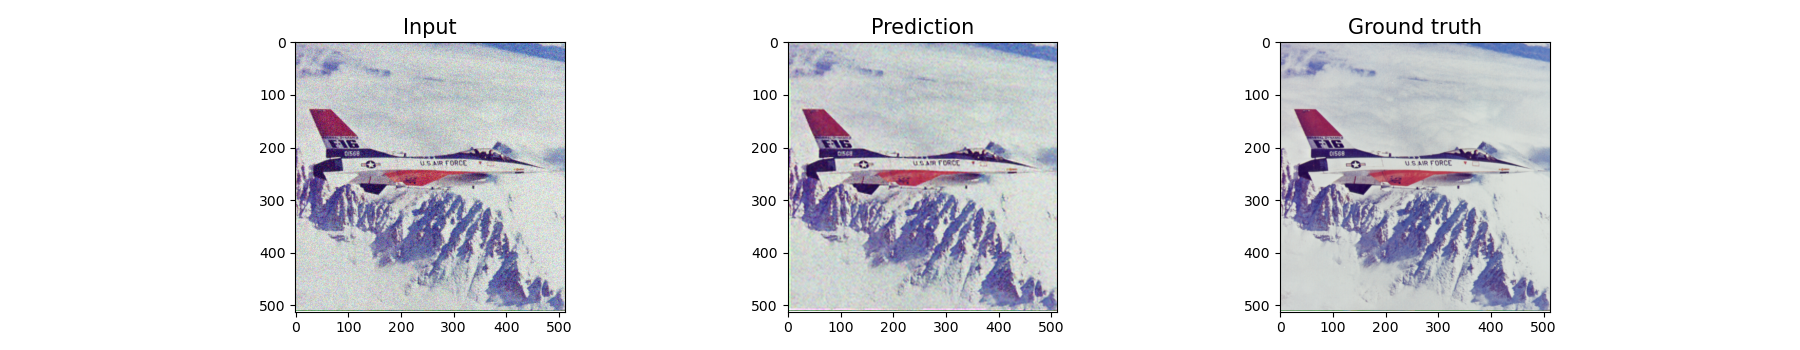
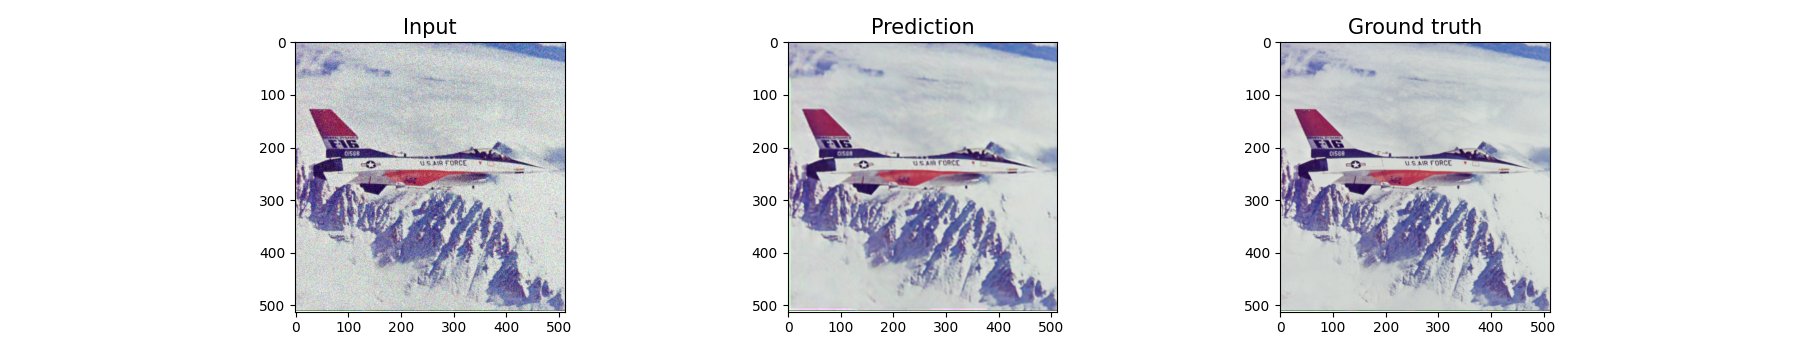
smooth

diff --git a/model.py b/model.py
@@ -56,69 +56,89 @@ class U(nn.Module):
 
 class Model(nn.Module):
 
-    def __init__(self, w, h, input_channel=3, u_mode='bilinear'):
+    def __init__(self, w, h, input_channel=3, u_mode='bilinear', channels=[128, 128, 128, 128, 128], skip=[4, 4, 4, 4, 4]):
         super(Model, self).__init__()
+        self.skip = skip
+        self.d1 = D(input_channel, channels[0], 3)
+        self.d2 = D(channels[0], channels[1], 3)
+        self.d3 = D(channels[1], channels[2], 3)
+        self.d4 = D(channels[2], channels[3], 3)
+        self.d5 = D(channels[3], channels[4], 3)
 
-        self.d1 = D(input_channel, 128, 3)
-        self.d2 = D(128, 128, 3)
-        self.d3 = D(128, 128, 3)
-        self.d4 = D(128, 128, 3)
-        self.d5 = D(128, 128, 3)
+        self.u1 = U(channels[1] + skip[0], channels[0], 3, mode=u_mode)
+        self.u2 = U(channels[2] + skip[1], channels[1], 3, mode=u_mode)
+        self.u3 = U(channels[3] + skip[2], channels[2], 3, mode=u_mode)
+        self.u4 = U(channels[4] + skip[3], channels[3], 3, mode=u_mode)
+        self.u5 = U(channels[4] + skip[4], channels[4], 3, mode=u_mode)
 
-        self.u1 = U(128 + 4, 128, 3, mode=u_mode)
-        self.u2 = U(128 + 4, 128, 3, mode=u_mode)
-        self.u3 = U(128 + 4, 128, 3, mode=u_mode)
-        self.u4 = U(128 + 4, 128, 3, mode=u_mode)
-        self.u5 = U(128 + 4, 128, 3, mode=u_mode)
+        self.s1 = S(channels[0], skip[0], 1)
+        self.s2 = S(channels[1], skip[1], 1)
+        self.s3 = S(channels[2], skip[2], 1)
+        self.s4 = S(channels[3], skip[3], 1)
+        self.s5 = S(channels[4], skip[4], 1)
 
-        self.s1 = S(128, 4, 1)
-        self.s2 = S(128, 4, 1)
-        self.s3 = S(128, 4, 1)
-        self.s4 = S(128, 4, 1)
-        self.s5 = S(128, 4, 1)
-
-        self.conv_out = nn.Conv2d(128, 3, 1, stride=1, padding=0, bias=True)
+        self.conv_out = nn.Conv2d(channels[0], 3, 1, stride=1, padding=0, bias=True)
 
     def forward(self, x):
         h = self.d1(x)
-        skip1 = self.s1(h)
+        if self.skip[0]!=0:
+            skip1 = self.s1(h)
         h = self.d2(h)
-        skip2 = self.s2(h)
+        if self.skip[1]!=0:
+            skip2 = self.s2(h)
         h = self.d3(h)
-        skip3 = self.s3(h)
+        if self.skip[2]!=0:
+            skip3 = self.s3(h)
         h = self.d4(h)
-        skip4 = self.s4(h)
+        if self.skip[3]!=0:
+            skip4 = self.s4(h)
         h = self.d5(h)
-        skip5 = self.s5(h)
+        if self.skip[4]!=0:
+            skip5 = self.s5(h)
 
-        if skip5.shape[2] == h.shape[2]:
-            h = self.u5(torch.cat((skip5, h), dim=1))
+        
+        if self.skip[4]==0:
+            h = self.u5(h)
         else:
-            self.crop_w, self.crop_h = h.shape[2] // 2, h.shape[3] // 2
-            h = self.u5(torch.cat((skip5[:,:,self.crop_w:-self.crop_w,self.crop_h:-self.crop_h],h),dim=1))
-
-        if skip4.shape[2] == h.shape[2]:
-            h = self.u4(torch.cat((skip4, h), dim=1))
+            if skip5.shape[2] == h.shape[2]:
+                h = self.u5(torch.cat((skip5, h), dim=1))
+            else:
+                self.crop_w, self.crop_h = h.shape[2] // 2, h.shape[3] // 2
+                h = self.u5(torch.cat((skip5[:,:,self.crop_w:-self.crop_w,self.crop_h:-self.crop_h],h),dim=1))
+        if self.skip[3]==0:
+            h = self.u4(h)
         else:
-            self.crop_w, self.crop_h = h.shape[2] // 2, h.shape[3] // 2
-            h = self.u4(torch.cat((skip4[:,:,self.crop_w:-self.crop_w,self.crop_h:-self.crop_h],h),dim=1))
+            # print(skip4.shape, h.shape)
+            if skip4.shape[2] == h.shape[2]:
+                h = self.u4(torch.cat((skip4, h), dim=1))
+            else:
+                self.crop_w, self.crop_h = h.shape[2] // 2, h.shape[3] // 2
+                h = self.u4(torch.cat((skip4[:,:,self.crop_w:-self.crop_w,self.crop_h:-self.crop_h],h),dim=1))
 
-        if skip3.shape[2] == h.shape[2]:
-            h = self.u3(torch.cat((skip3, h), dim=1))
+        if self.skip[2]==0:
+            h = self.u3(h)
         else:
-            self.crop_w, self.crop_h = h.shape[2] // 2, h.shape[3] // 2
-            h = self.u3(torch.cat((skip3[:,:,self.crop_w:-self.crop_w,self.crop_h:-self.crop_h],h),dim=1))
+            if skip3.shape[2] == h.shape[2]:
+                h = self.u3(torch.cat((skip3, h), dim=1))
+            else:
+                self.crop_w, self.crop_h = h.shape[2] // 2, h.shape[3] // 2
+                h = self.u3(torch.cat((skip3[:,:,self.crop_w:-self.crop_w,self.crop_h:-self.crop_h],h),dim=1))
 
-        if skip2.shape[2] == h.shape[2]:
-            h = self.u2(torch.cat((skip2, h), dim=1))
+        if self.skip[1]==0:
+            h = self.u2(h)
         else:
-            self.crop_w, self.crop_h = h.shape[2] // 2, h.shape[3] // 2
-            h = self.u2(torch.cat((skip2[:,:,self.crop_w:-self.crop_w,self.crop_h:-self.crop_h],h),dim=1))
+            if skip2.shape[2] == h.shape[2]:
+                h = self.u2(torch.cat((skip2, h), dim=1))
+            else:
+                self.crop_w, self.crop_h = h.shape[2] // 2, h.shape[3] // 2
+                h = self.u2(torch.cat((skip2[:,:,self.crop_w:-self.crop_w,self.crop_h:-self.crop_h],h),dim=1))
 
-        if skip1.shape[2] == h.shape[2]:
-            h = self.u1(torch.cat((skip1, h), dim=1))
+        if self.skip[0]==0:
+            h = self.u1(h)
         else:
-            self.crop_w, self.crop_h = h.shape[2] // 2, h.shape[3] // 2
-            h = self.u1(torch.cat((skip1[:,:,self.crop_w:-self.crop_w,self.crop_h:-self.crop_h],h),dim=1))
-
+            if skip1.shape[2] == h.shape[2]:
+                h = self.u1(torch.cat((skip1, h), dim=1))
+            else:
+                self.crop_w, self.crop_h = h.shape[2] // 2, h.shape[3] // 2
+                h = self.u1(torch.cat((skip1[:,:,self.crop_w:-self.crop_w,self.crop_h:-self.crop_h],h),dim=1))
         return torch.sigmoid(self.conv_out(h))

diff --git a/main.py b/main.py
@@ -2,17 +2,15 @@ import torch
 import numpy as np
 from PIL import Image
 from tqdm import tqdm
-import torch.nn as nn
 import argparse
 from torch import optim
 import matplotlib.pyplot as plt
-import skimage.transform as transform
 import os
 os.environ['KMP_DUPLICATE_LIB_OK']='True'
 from model import Model
 from model_without_skip import Model_without_skip
 from model_for_inpainting import Model_for_inpainting
-from sample import upsample,downsample
+from sample import upsample,downsample, smooth, sharp
 from psnr import cal_psnr
 
 
@@ -39,6 +37,9 @@ if __name__ == "__main__":
     elif args.name == 'zebra':
         address = './data/sr/zebra_crop.png'
         t = 4
+    elif args.name == 'wps':
+        address = './data/denoising/wps.png'
+    
     image = Image.open(address, 'r')
     w, h = image.size
     image = image.resize((w - w % 32, h - h % 32), resample=Image.LANCZOS)
@@ -46,8 +47,11 @@ if __name__ == "__main__":
     if args.task == 'denoise':
         # print(image.shape)
         channels = 32
-        model = Model(image.shape[1], image.shape[2],input_channel=channels).to(device)
-        optimizer = optim.Adam(model.parameters(), lr=0.01)
+        if args.name == 'snail':
+            model = Model(image.shape[1], image.shape[2],input_channel=channels, channels=[128, 128, 128, 256, 256], skip=[4, 4, 4, 8, 8]).to(device)
+        else:
+            model = Model(image.shape[1], image.shape[2],input_channel=channels).to(device)
+        optimizer = optim.Adam(model.parameters(), lr=0.02)
         loss_fn = torch.nn.MSELoss()
         corrupted_img = (image + torch.randn_like(image) * .1).clip(0, 1)
         corrupted_img = corrupted_img.transpose(2, 3).transpose(1, 2)
@@ -110,13 +114,26 @@ if __name__ == "__main__":
         optimizer = optim.Adam(model.parameters(), lr=0.01)
         downsampler = downsample(3, t, 'gaussian', device).to(device)
 
+    ## train
     loss_ = []
+    res = torch.zeros_like(corrupted_img).to(device)
+    thre = 50
+    smooth_model = smooth(3, device)
+    sharp_model = sharp(3, device)
     for epoch in tqdm(range(args.epoch)):
         if args.task == 'denoise':
             noise = torch.randn([1, channels, corrupted_img.shape[-2], corrupted_img.shape[-1]],device=device, requires_grad=True)/30
             input = z + noise
+            # input = z
             img_pred = model(input)
-            loss = loss_fn(img_pred, corrupted_img)    
+            loss = loss_fn(img_pred, corrupted_img)  
+            if (epoch + 1) % 3 == 0:
+                # img_pred = sharp_model(img_pred)
+                img_pred = smooth_model(img_pred)  
+                
+            if epoch >= args.epoch - thre :
+                res += img_pred / thre
+            
         
         elif args.task == 'super':
             noise = torch.randn(z.shape,device=device, requires_grad=True)/30
@@ -151,9 +168,11 @@ if __name__ == "__main__":
         # plt.imsave(f'./Imgs/{args.name}_input{str(args.epoch)}.png', corr_img[0])
         plt.title('Input', fontsize=15)
         plt.subplot(1, 3, 2)
-        pred=img_pred[0].cpu().transpose(0, 1).transpose(1, 2).data.numpy(), 
-        plt.imshow(pred[0])
-        plt.imsave(f'./Imgs/{args.name}_{args.task}{str(args.epoch)}.png', pred[0])
+        # pred=img_pred[0].cpu().transpose(0, 1).transpose(1, 2).data.numpy()
+        pred=res[0].cpu().transpose(0, 1).transpose(1, 2).data.numpy().clip(0,1)
+        # plt.imshow(pred[0])
+        plt.imshow(pred)
+        plt.imsave(f'./Imgs/{args.name}_{args.task}{str(args.epoch)}.png', pred)
         plt.title('Prediction', fontsize=15)
         plt.subplot(1, 3, 3)
         origin = image[0].data.numpy()
@@ -227,3 +246,4 @@ if __name__ == "__main__":
     # python main.py --task=super --name=zebra --epoch=2000
     # python main.py --task=inpaint --name=vase --epoch=20000
     # python main.py --task=inpaint --name=library --epoch=5000
+    # python main.py --task=denoise --name=snail --epoch=3000

diff --git a/sample.py b/sample.py
@@ -73,16 +73,46 @@ class downsample(nn.Module):
         return down
     
 class smooth(nn.Module):
-    def __init__(self, device):
+    def __init__(self,in_channels, device):
+        super(smooth, self).__init__()
+        self.channels = in_channels
         self.kernel = self.get_kernel().to(device)
         
     def get_kernel(self):
         kernel_size = 3
+        res = torch.zeros(size=(self.channels, self.channels, kernel_size, kernel_size))
         kernel = torch.ones(size=(kernel_size, kernel_size))
-        kernel /= (kernel_size * kernel_size)
-        
-        return kernel
+        mid = int(kernel_size / 2)
+        kernel[mid, mid] = torch.tensor(20)
+        kernel /= kernel.sum()
+        # print(kernel)
+        for i in range(self.channels):
+            res[i, i] = kernel
+        return res
     
     def forward(self, x):
         smoothness = nn.functional.conv2d(x, self.kernel, stride=1, padding=1)
         return smoothness
+    
+    
+class sharp(nn.Module):
+    def __init__(self, in_channels, device):
+        super(sharp, self).__init__()
+        self.channels = in_channels
+        self.kernel = self.get_kernel().to(device)
+                
+    def get_kernel(self):
+        kernel_size = 3
+        res = torch.zeros(size=(self.channels, self.channels, kernel_size, kernel_size))
+        kernel = torch.ones(size=(kernel_size, kernel_size))* -0.1
+        mid = int(kernel_size / 2)
+        kernel[mid, mid] = torch.tensor(1.8)
+        # kernel /= kernel.sum()
+        # print(kernel)
+        for i in range(self.channels):
+            res[i, i] = kernel
+        return res
+    
+    def forward(self, x):
+        sharpness = nn.functional.conv2d(x, self.kernel, stride=1, padding=1)
+        return sharpness

diff --git a/utils.py b/utils.py
@@ -1,0 +1,25 @@
+import cv2
+import numpy as np
+from PIL import Image
+
+
+def bgr2gray(image):
+    return 0.114*image[:,:,0]+0.587*image[:,:,1]+0.299*image[:,:,2]
+
+def cal_sharp(address):
+    image = np.array(Image.open(address))
+    gray_image = bgr2gray(image)
+    std_dev = np.std(gray_image)
+    contrast = std_dev / 127
+    return contrast
+
+
+def cal_blur(address):
+    image = np.array(Image.open(address))
+    gray_image = bgr2gray(image)
+
+    laplacian_var = cv2.Laplacian(gray_image, cv2.CV_64F).var()
+    return laplacian_var
+
+if __name__=='__main__':
+    print(cal_sharp('./data/denoising/F16_GT.png'), cal_blur('./data/denoising/F16_GT.png'))
